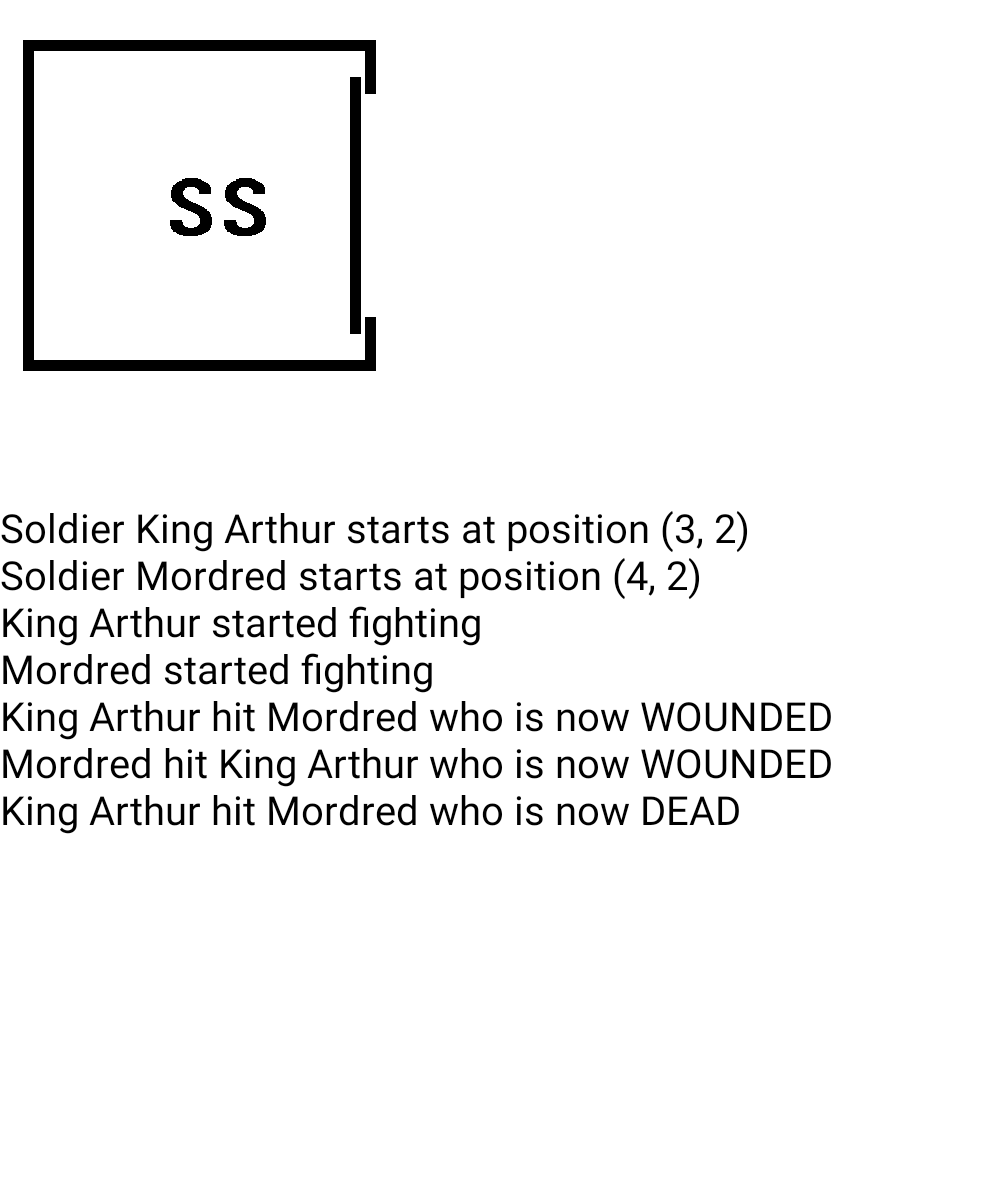
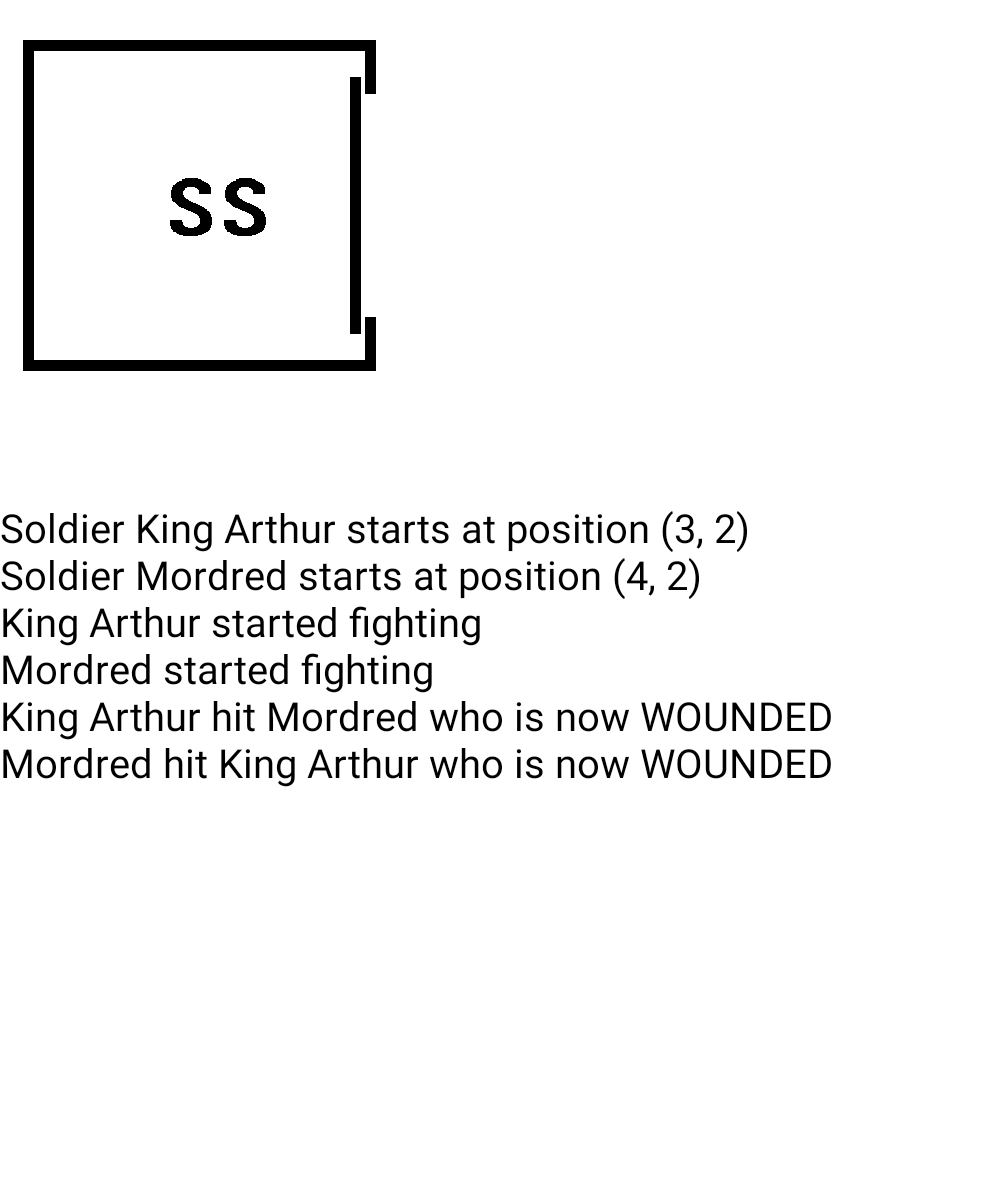
Don't show dead soldiers in the battlefield. This required also to adapt the app tests to test an intermediate state (soldier wounded, and then dead)

Changed region(s): [[0.0, 0.6475, 0.496, 0.7092], [0.527, 0.6475, 0.744, 0.7092]]

diff --git a/app/src/main/java/apuchau/skirmish/app/text/BattlefieldTextView.kt b/app/src/main/java/apuchau/skirmish/app/text/BattlefieldTextView.kt
@@ -7,10 +7,6 @@ import android.util.TypedValue
 import android.widget.TextView
 import apuchau.skirmish.app.BattlefieldView
 import apuchau.skirmish.battle.BattleSnapshot
-import apuchau.skirmish.battle.SoldiersBattlePositions
-import apuchau.skirmish.battlefield.Battlefield
-import apuchau.skirmish.battlefield.BattlefieldBoundaries
-import apuchau.skirmish.battlefield.BattlefieldPosition
 
 class BattlefieldTextView(context: Context?) : TextView(context), BattlefieldView {
 
@@ -28,52 +24,6 @@ class BattlefieldTextView(context: Context?) : TextView(context), BattlefieldVie
 	}
 
 	private fun createBattleStatusTextVersion(battleSnapshot: BattleSnapshot): String {
-
-		val battlefieldTxt = createBattlefield(battleSnapshot.battlefield)
-		return displaySoldiersInBattlefield(
-			battlefieldTxt,
-			battleSnapshot.battlefield.boundaries,
-			battleSnapshot.soldiersBattlePositions)
+		return textRepresentation(battleSnapshot)
 	}
-
-	fun createBattlefield(battlefield: Battlefield): String {
-
-		val boundaries = battlefield.boundaries
-
-		val topBorder = "┏" + "━".repeat(boundaries.width) + "┓\n"
-		val emptyRow = "┃" + " ".repeat(boundaries.width) + "┃\n"
-		val bottomBorder = "┗" + "━".repeat(boundaries.width) + "┛\n"
-
-		val rows = (1 .. boundaries.height).map { emptyRow }.joinToString("")
-
-		return topBorder + rows + bottomBorder
-	}
-
-	private fun displaySoldiersInBattlefield(
-		battlefieldTxt: String,
-		battlefieldBoundaries: BattlefieldBoundaries,
-		soldiersBattlePositions: SoldiersBattlePositions): String {
-
-		val battleTxt = StringBuilder(battlefieldTxt)
-		soldiersBattlePositions.forEach({
-			soldierAndPosition -> displaySoldierInBattlefield(
-			battleTxt, battlefieldBoundaries, soldierAndPosition.second)
-		})
-		return battleTxt.toString()
-	}
-
-	private fun displaySoldierInBattlefield(
-		battleTxt: StringBuilder,
-		battlefieldBoundaries: BattlefieldBoundaries,
-		position: BattlefieldPosition) {
-
-		val positionInTxt = toPositionInText(position, battlefieldBoundaries)
-		battleTxt.replace(positionInTxt, positionInTxt+1, charForSoldier().toString())
-	}
-
-	private fun toPositionInText(position: BattlefieldPosition, battlefieldBoundaries: BattlefieldBoundaries): Int {
-		return (position.y * (battlefieldBoundaries.width+2+1)) + position.x
-	}
-
-	private fun charForSoldier(): Char = 'S'
 }

diff --git a/app/src/main/java/apuchau/skirmish/app/text/BattlefieldTextRepresentation.kt b/app/src/main/java/apuchau/skirmish/app/text/BattlefieldTextRepresentation.kt
@@ -1,0 +1,62 @@
+package apuchau.skirmish.app.text
+
+import apuchau.skirmish.battle.BattleSnapshot
+import apuchau.skirmish.battle.SoldiersBattlePositions
+import apuchau.skirmish.battle.SoldiersStatuses
+import apuchau.skirmish.battlefield.Battlefield
+import apuchau.skirmish.battlefield.BattlefieldBoundaries
+import apuchau.skirmish.battlefield.BattlefieldPosition
+
+fun textRepresentation(battleSnapshot: BattleSnapshot) : String {
+
+		val battlefieldTxt = createBattlefield(battleSnapshot.battlefield)
+		return displaySoldiersInBattlefield(
+			battlefieldTxt,
+			battleSnapshot.battlefield.boundaries,
+			battleSnapshot.soldiersBattlePositions,
+			battleSnapshot.soldiersStatuses)
+}
+
+fun createBattlefield(battlefield: Battlefield): String {
+
+	val boundaries = battlefield.boundaries
+
+	val topBorder = "┏" + "━".repeat(boundaries.width) + "┓\n"
+	val emptyRow = "┃" + " ".repeat(boundaries.width) + "┃\n"
+	val bottomBorder = "┗" + "━".repeat(boundaries.width) + "┛\n"
+
+	val rows = (1 .. boundaries.height).map { emptyRow }.joinToString("")
+
+	return topBorder + rows + bottomBorder
+}
+
+private fun displaySoldiersInBattlefield(
+	battlefieldTxt: String,
+	battlefieldBoundaries: BattlefieldBoundaries,
+	soldiersBattlePositions: SoldiersBattlePositions,
+	soldiersStatuses: SoldiersStatuses): String {
+
+	val battleTxt = StringBuilder(battlefieldTxt)
+
+	soldiersStatuses
+		.soldiersAlive()
+		.mapNotNull { soldier -> soldiersBattlePositions.soldierPosition(soldier)?.let { Pair(soldier, it) }}
+		.forEach { displaySoldierInBattlefield(battleTxt, battlefieldBoundaries, it.second)}
+
+	return battleTxt.toString()
+}
+
+private fun displaySoldierInBattlefield(
+	battleTxt: StringBuilder,
+	battlefieldBoundaries: BattlefieldBoundaries,
+	position: BattlefieldPosition) {
+
+	val positionInTxt = toPositionInText(position, battlefieldBoundaries)
+	battleTxt.replace(positionInTxt, positionInTxt+1, charForSoldier().toString())
+}
+
+private fun toPositionInText(position: BattlefieldPosition, battlefieldBoundaries: BattlefieldBoundaries): Int {
+	return (position.y * (battlefieldBoundaries.width+2+1)) + position.x
+}
+
+private fun charForSoldier(): Char = 'S'

diff --git a/app/src/main/java/apuchau/skirmish/app/SkirmishAppActivity.kt b/app/src/main/java/apuchau/skirmish/app/SkirmishAppActivity.kt
@@ -4,7 +4,9 @@ import android.app.Activity
 import android.os.Bundle
 import android.view.View
 import android.view.ViewGroup
+import android.view.ViewTreeObserver
 import android.widget.LinearLayout
+import apuchau.skirmish.app.view.takeSnapshot
 import apuchau.skirmish.army.Army
 import apuchau.skirmish.battle.Battle
 import apuchau.skirmish.battle.SoldiersBattlePositions
@@ -16,7 +18,6 @@ import apuchau.skirmish.soldier.SoldierId
 import com.natpryce.onError
 import java.util.*
 import kotlin.concurrent.timerTask
-
 
 class SkirmishAppActivity : Activity() {
 
@@ -31,6 +32,11 @@ class SkirmishAppActivity : Activity() {
 		createBattle()
 		createBattleView()
 		startBattle()
+	}
+
+	fun startBattle() {
+		displayBattle()
+		startBattleCycleTimer()
 	}
 
 	private fun createBattle() {
@@ -69,15 +75,10 @@ class SkirmishAppActivity : Activity() {
 		setContentView(battleView)
 	}
 
-	private fun startBattle() {
-		displayBattle()
-		startBattleCycleTimer()
-	}
-
 	private fun startBattleCycleTimer() {
 		Timer("SkimishAppBattleTimeCycle", true).scheduleAtFixedRate(
 			timerTask({ battleTimerTick() }),
-			200, 1000)
+			200, 3000)
 	}
 
 	private fun battleTimerTick() {
@@ -90,7 +91,17 @@ class SkirmishAppActivity : Activity() {
 	}
 
 	fun displayBattle() {
-		battle?.let { battleView?.displayBattleSnapshot(it.snapshot()) }
+		val battleViewSnapshot = battleView
+		battle?.let { battleViewSnapshot?.displayBattleSnapshot(it.snapshot()) }
+		battleViewSnapshot?.let {
+
+			(battleViewSnapshot as View).getViewTreeObserver().addOnGlobalLayoutListener(object : ViewTreeObserver.OnGlobalLayoutListener {
+				override fun onGlobalLayout() {
+					battleViewSnapshot.getViewTreeObserver().removeOnGlobalLayoutListener(this)
+					(battleViewSnapshot as View).takeSnapshot(applicationContext, "battleview screenshot.png")
+				}
+			})
+		}
 	}
 
 	fun battlefieldPosition(x: Int, y: Int) =

diff --git a/app/src/androidTest/java/apuchau/skirmish/app/text/BattlefieldTextViewTests.kt b/app/src/androidTest/java/apuchau/skirmish/app/text/BattlefieldTextViewTests.kt
@@ -14,6 +14,7 @@ import apuchau.skirmish.battlefield
 import apuchau.skirmish.battlefieldPosition
 import apuchau.skirmish.soldier.Soldier
 import apuchau.skirmish.soldier.SoldierId
+import apuchau.skirmish.soldier.SoldierStatus
 import org.junit.Assert.assertEquals
 import org.junit.Assert.assertTrue
 import org.junit.Test
@@ -52,7 +53,7 @@ class BattlefieldTextViewTests {
 	}
 
 	@Test
-	fun when_soldiers_in_battlefield__soldiers_and_battlefield_is_displayed() {
+	fun when_soldiers_in_battlefield__soldiers_and_battlefield_are_displayed() {
 
 		val context = InstrumentationRegistry.getTargetContext()
 		val battlefield = battlefield(3,2)
@@ -72,6 +73,35 @@ class BattlefieldTextViewTests {
 			   "┏━━━┓\n"+
 				"┃   ┃\n"+
 				"┃SS ┃\n"+
+				"┗━━━┛\n"
+
+		assertViewContent(expectedStatusText, view)
+	}
+
+	@Test
+	fun when_soldiers_are_dead__they_are_not_shown_in_battlefield() {
+
+		val context = InstrumentationRegistry.getTargetContext()
+		val battlefield = battlefield(3,2)
+		val soldiersStatuses=
+			SoldiersStatuses.withAllHealthy(allSoldiers)
+				.byChangingSoldierStatus(Mordred, SoldierStatus.DEAD)
+
+		val battlePositions = SoldiersBattlePositions(listOf(
+			Pair(KingArthur, battlefieldPosition(1,2)),
+			Pair(Mordred, battlefieldPosition(2, 2))
+		))
+		val soldiersActions = SoldiersBattleActions.withAllDoingNothing(allSoldiers)
+		val battleSnapshot = BattleSnapshot(battlefield, soldiersStatuses, battlePositions, soldiersActions, BattleLog.empty())
+
+		val view = BattlefieldTextView(context)
+		view.displayBattleSnapshot(snapshot = battleSnapshot)
+		view.setLayoutParams(ViewGroup.LayoutParams(100,100))
+
+		val expectedStatusText =
+			   "┏━━━┓\n"+
+				"┃   ┃\n"+
+				"┃S  ┃\n"+
 				"┗━━━┛\n"
 
 		assertViewContent(expectedStatusText, view)

diff --git a/app/src/androidTest/java/apuchau/skirmish/app/SkirmishAppActivityTests.kt b/app/src/androidTest/java/apuchau/skirmish/app/SkirmishAppActivityTests.kt
@@ -23,17 +23,29 @@ class SkirmishAppActivityTests {
 	val activityRule = ActivityTestRule<SkirmishAppActivity>(SkirmishAppActivity::class.java)
 
 	@Test
-	fun after_some_cycles_of_battle_displays_battlefield_with_arthur_and_mordred_in_battlefield_and_battle_log() {
+	fun after_battle_starts__displays_battlefield_with_arthur_and_mordred_and_battle_log() {
 
-		waitForThreeBattleCycles()
+		waitForBattleCycles(0)
 		val expectedContent = readTestImage("battlefield_1000x1200_battlefield_arthur_mordred_then_log.png")
 		val viewContent = mainView().rgb8Content().crop(0, 0,1000,1200)
 
 		assertBitmaps(expectedContent, viewContent)
 	}
 
-	private fun waitForThreeBattleCycles() {
-		Thread.sleep(3000)
+	@Test
+	fun after_two_cycles_of_battle_displays_battlefield_with_arthur_and_battle_log_mordred_is_dead() {
+
+		waitForBattleCycles(2)
+		val expectedContent = readTestImage("battlefield_1000x1200_battlefield_arthur_then_log.png")
+		val viewContent = mainView().rgb8Content().crop(0, 0,1000,1200)
+
+		assertBitmaps(expectedContent, viewContent)
+	}
+
+	private fun waitForBattleCycles(cycles: Int) {
+		// The first cycle corresponds to no waiting
+		Thread.sleep( 200L + (cycles * 1000L))
+
 	}
 
 	private fun readTestImage(imagePath: String): Bitmap =

diff --git a/app/src/main/java/apuchau/skirmish/battle/Battle.kt b/app/src/main/java/apuchau/skirmish/battle/Battle.kt
@@ -16,8 +16,9 @@ class Battle private constructor(private val battlefield: Battlefield,
 											private val armies: Set<Army>,
 											private var soldiersStatuses: SoldiersStatuses,
 											private val soldiersPositions: SoldiersBattlePositions,
-											private var soldiersActions: SoldiersBattleActions,
 											private var battleLog: BattleLog) {
+
+	private var soldiersActions : SoldiersBattleActions = SoldiersBattleActions.withAllDoingNothing(soldiersPositions.soldiers())
 
 	companion object Factory {
 
@@ -37,7 +38,6 @@ class Battle private constructor(private val battlefield: Battlefield,
 					armies,
 					SoldiersStatuses.withAllHealthy(allSoldiers),
 					soldiersPositions,
-					SoldiersBattleActions.withAllDoingNothing(allSoldiers),
 					battleLogForBattleStart(soldiersPositions)))
 			}
 		}
@@ -49,7 +49,7 @@ class Battle private constructor(private val battlefield: Battlefield,
 			armies: Set<Army>,
 			soldiersPositions: SoldiersBattlePositions) =
 
-			armies.all { it.soldiers.any{ soldiersPositions.containsSoldier(it) } }
+			armies.all { army -> army.soldiers.any{ soldiersPositions.containsSoldier(it) } }
 
 
 		private fun doAllSoldiersInBattlefieldBelongsToArmies(

diff --git a/app/src/main/java/apuchau/skirmish/battle/SoldiersStatuses.kt b/app/src/main/java/apuchau/skirmish/battle/SoldiersStatuses.kt
@@ -38,4 +38,10 @@ class SoldiersStatuses private constructor(val soldiersStatuses: Map<Soldier,Sol
 		return SoldiersStatuses(newSoldiersStatuses)
 	}
 
+	fun soldiersAlive(): List<Soldier> {
+		return soldiersStatuses
+			.entries.filterNot { mapEntry -> mapEntry.value == SoldierStatus.DEAD }
+			.map { mapEntry -> mapEntry.key }
+	}
+
 }
